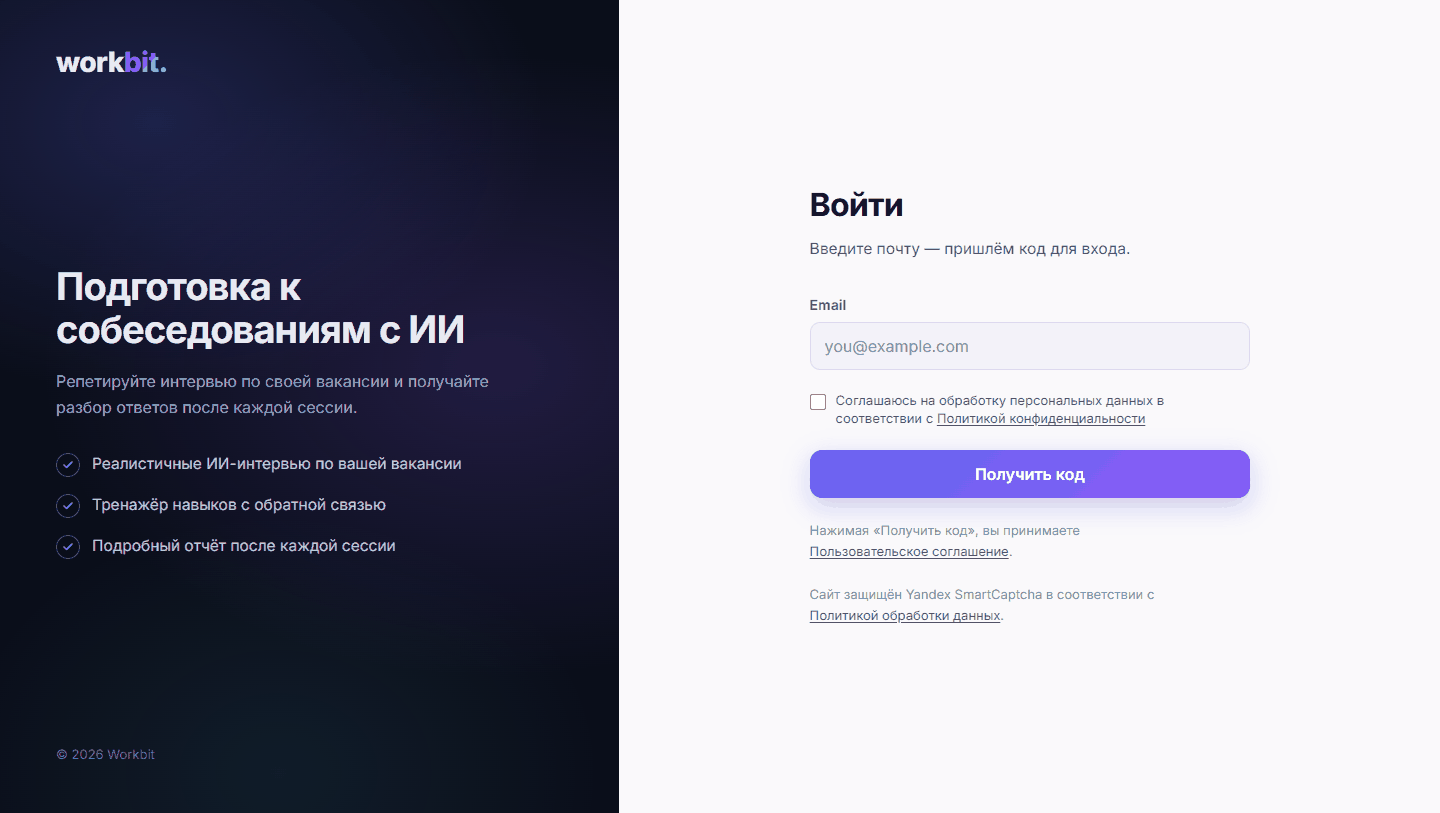
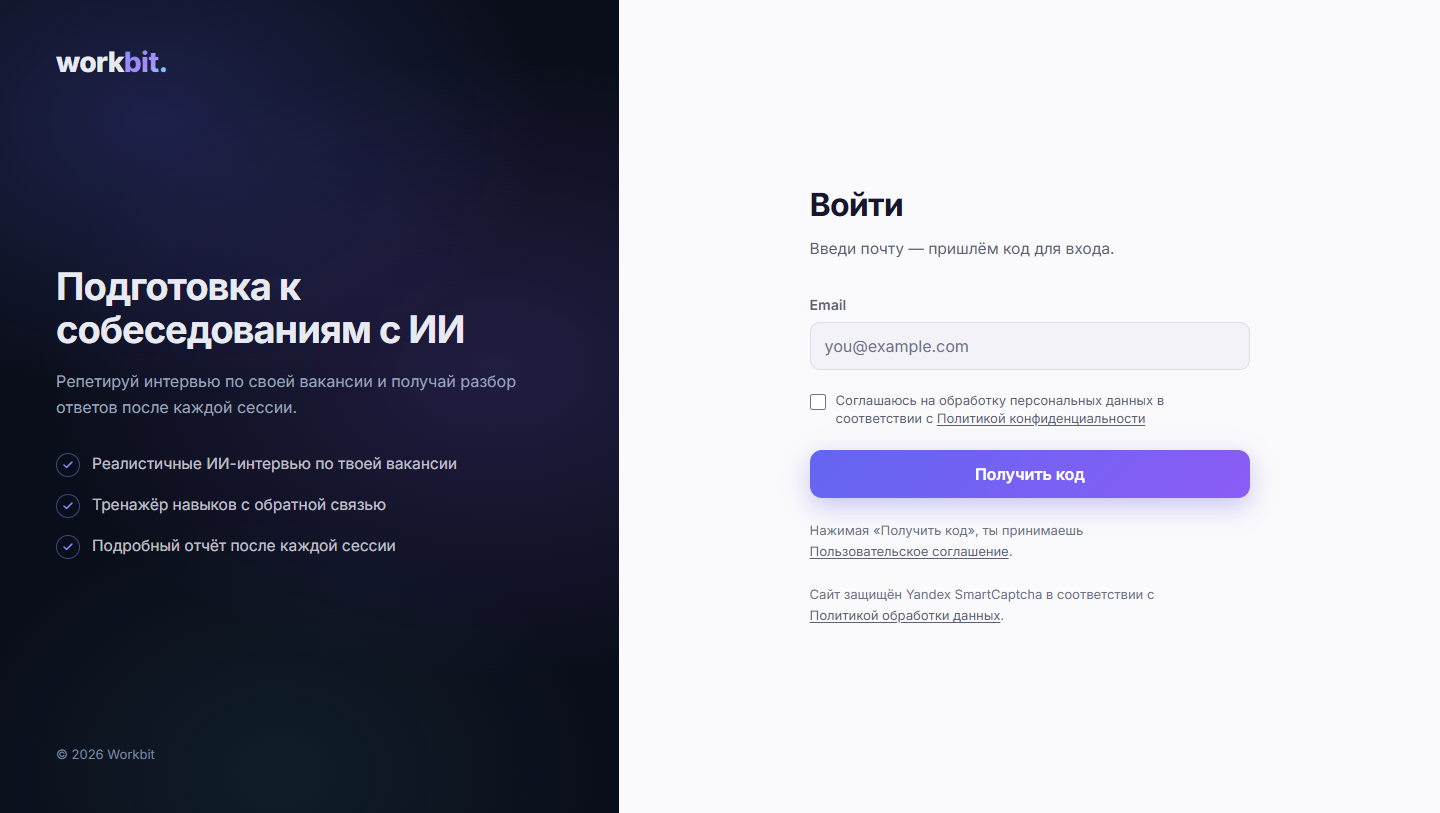
docs: refresh screenshots and update README for GitHub Actions CI/CD
- retake marketing/login screenshots for the redesigned pages (dark theme, 1440px)

- rewrite CI/CD section around GitHub Actions workflows (ci, deploy, security, backup, canary), replacing the retired GitVerse pipeline

- refresh coverage numbers from the latest mvn verify + JaCoCo run (branches 75% -> 76%, security domain 93% -> 94%)

diff --git a/README.ru.md b/README.ru.md
@@ -25,7 +25,7 @@
 
 ![Docker](https://img.shields.io/badge/Docker-Compose-2496ED?logo=docker&logoColor=white)
 ![Caddy](https://img.shields.io/badge/Caddy-reverse_proxy-1F88C0)
-![GitVerse](https://img.shields.io/badge/GitVerse-CI-1C64F2)
+![GitHub Actions](https://img.shields.io/badge/GitHub_Actions-CI%2FCD-2088FF?logo=githubactions&logoColor=white)
 ![Yandex Cloud](https://img.shields.io/badge/Yandex_Cloud-LLM_%7C_STT_%7C_VM-5282FF)
 ![Robokassa](https://img.shields.io/badge/Robokassa-payments-8B5CF6)
 ![Testcontainers](https://img.shields.io/badge/Testcontainers-integration_tests-291A3F)
@@ -103,7 +103,7 @@
 | Персистентность | Testcontainers (postgres:16) + `@DataJpaTest` на схеме из миграций Flyway |
 | Почта | GreenMail — реальная SMTP-доставка и проверка HTML-тела письма |
 | E2E | `@SpringBootTest(RANDOM_PORT)` + TestRestTemplate поверх Testcontainers |
-| Покрытие | JaCoCo — 87% строк, 75% веток (разбивка по доменам — в [Тестах](#-тесты)) |
+| Покрытие | JaCoCo — 87% строк, 76% веток (разбивка по доменам — в [Тестах](#-тесты)) |
 
 ### Инфраструктура
 
@@ -111,7 +111,7 @@
 |---|---|
 | Контейнеры | Docker, многосервисный Compose (postgres + backend + caddy) |
 | Прокси | Caddy — TLS, reverse proxy `/api`, статика SPA |
-| CI/CD | GitVerse CI: тесты на PR, релизный пайплайн с `master` (сборка образа kaniko → Yandex Container Registry, выкладка на VM) |
+| CI/CD | GitHub Actions: тесты на PR, релизный пайплайн с `master` (сборка образа → Yandex Container Registry, выкладка на VM с автооткатом), еженедельный security-скан, ночной бэкап БД, canary-проверки |
 | Хостинг | Yandex Cloud (VM, Container Registry), отдельный диск под данные PostgreSQL |
 
 ## 🔌 Интеграции
@@ -180,7 +180,7 @@ src/                  бэкенд (Maven, ru.workbit:workbit)
   main/proto/                    контракт SpeechKit STT
 frontend/             SPA (React + Vite)
 docs/                 описания REST-контрактов и юридические документы
-.gitverse/workflows/  CI- и deploy-пайплайны (GitVerse)
+.github/workflows/    CI, деплой, security-скан, бэкапы, canary (GitHub Actions)
 Dockerfile            образ бэкенда
 docker-compose.yml    локальная разработка (postgres)
 compose.prod.yml      прод: postgres + backend + caddy
@@ -223,7 +223,7 @@ Caddyfile             конфиг reverse proxy
 
 Фронтенд: `npm run lint`, `npm test` (Vitest) и `npm run build`.
 
-Покрытие — JaCoCo на `./mvnw verify`: 87% строк, 75% веток (сгенерированные gRPC-стабы SpeechKit из отчёта исключены):
+Покрытие — JaCoCo на `./mvnw verify`: 87% строк, 76% веток (сгенерированные gRPC-стабы SpeechKit из отчёта исключены):
 
 <details>
 <summary>Разбивка по доменам</summary>
@@ -235,7 +235,7 @@ Caddyfile             конфиг reverse proxy
 | `interview` | `██████████` | 98% |
 | `auth` | `██████████` | 97% |
 | `training` | `██████████` | 97% |
-| `security` | `█████████░` | 93% |
+| `security` | `█████████░` | 94% |
 | `util` | `█████████░` | 92% |
 | `llm` | `█████████░` | 91% |
 | `exception` | `████████░░` | 78% |
@@ -249,8 +249,11 @@ Caddyfile             конфиг reverse proxy
 
 ## ⚙ CI/CD
 
-- **CI** ([`.gitverse/workflows/ci.yml`](.gitverse/workflows/ci.yml)) — на PR в `develop` и `master`: юнит-тесты (`./mvnw test`), линт и сборка фронтенда.
-- **Deploy** ([`.gitverse/workflows/deploy.yml`](.gitverse/workflows/deploy.yml)) — на push в `master`: юнит-тесты, сборка образа бэкенда через kaniko с публикацией в Yandex Container Registry, выкладка на VM ([`compose.prod.yml`](compose.prod.yml): postgres + backend + caddy, TLS и статика фронтенда — через Caddy) с автооткатом и smoke-тестами. Еженедельный security-скан (Trivy, npm audit) ещё ждёт переноса с эпохи GitHub Actions.
+- **CI** ([`ci.yml`](.github/workflows/ci.yml)) — на PR в `develop` и `master`: `mvn verify` (юнит-тесты и интеграционные на Testcontainers), сборка образа бэкенда без публикации, линт, тесты и сборка фронтенда.
+- **Deploy** ([`deploy.yml`](.github/workflows/deploy.yml)) — на push в `master`: тесты, затем параллельно образ бэкенда уходит в Yandex Container Registry и собирается бандл фронтенда, следом выкладка на VM по SSH ([`compose.prod.yml`](compose.prod.yml): postgres + backend + caddy, TLS и статика фронтенда — через Caddy). Выкладка рендерит `.env` из зашифрованных SOPS-секретов, снимает дамп БД перед обновлением, ждёт, пока новый контейнер станет healthy, и откатывается на предыдущий образ, если не прошёл smoke бэкенда (`/api/v1/auth/me` должен ответить 401); статика фронтенда заливается rsync'ом и проверяется на canonical, JSON-LD и честный 404. Дальше отдельная джоба гоняет авторизованный smoke с живым вызовом LLM, а релизная — проставляет тег версии и публикует release notes.
+- **Security scan** ([`security.yml`](.github/workflows/security.yml)) — еженедельно: Trivy по зависимостям репозитория и по собранному образу бэкенда (CRITICAL/HIGH, только исправимые) плюс `npm audit` для фронтенда.
+- **DB backup** ([`backup.yml`](.github/workflows/backup.yml)) — ночной `pg_dump -Fc` на VM с ротацией за 14 дней.
+- **Canary** ([`canary.yml`](.github/workflows/canary.yml)) — каждые три часа: главная страница и `/api/v1/auth/me` (ожидается 401), с повторами; раз в сутки — тот же авторизованный smoke с живым вызовом LLM.
 
 ## 📚 Документация
 

diff --git a/README.md b/README.md
@@ -25,7 +25,7 @@ based on real hh.ru job postings, answering by text or voice.
 
 ![Docker](https://img.shields.io/badge/Docker-Compose-2496ED?logo=docker&logoColor=white)
 ![Caddy](https://img.shields.io/badge/Caddy-reverse_proxy-1F88C0)
-![GitVerse](https://img.shields.io/badge/GitVerse-CI-1C64F2)
+![GitHub Actions](https://img.shields.io/badge/GitHub_Actions-CI%2FCD-2088FF?logo=githubactions&logoColor=white)
 ![Yandex Cloud](https://img.shields.io/badge/Yandex_Cloud-LLM_%7C_STT_%7C_VM-5282FF)
 ![Robokassa](https://img.shields.io/badge/Robokassa-payments-8B5CF6)
 ![Testcontainers](https://img.shields.io/badge/Testcontainers-integration_tests-291A3F)
@@ -103,7 +103,7 @@ based on real hh.ru job postings, answering by text or voice.
 | Persistence | Testcontainers (postgres:16) + `@DataJpaTest` on the Flyway-migrated schema |
 | Email | GreenMail — real SMTP delivery and assertions on the HTML body of the email |
 | E2E | `@SpringBootTest(RANDOM_PORT)` + TestRestTemplate on top of Testcontainers |
-| Coverage | JaCoCo — 87% lines, 75% branches (per-domain breakdown in [Tests](#-tests)) |
+| Coverage | JaCoCo — 87% lines, 76% branches (per-domain breakdown in [Tests](#-tests)) |
 
 ### Infrastructure
 
@@ -111,7 +111,7 @@ based on real hh.ru job postings, answering by text or voice.
 |---|---|
 | Containers | Docker, multi-service Compose (postgres + backend + caddy) |
 | Proxy | Caddy — TLS, reverse proxy for `/api`, SPA static files |
-| CI/CD | GitVerse CI: tests on PRs, release pipeline from `master` (kaniko image build → Yandex Container Registry, VM rollout) |
+| CI/CD | GitHub Actions: tests on PRs, release pipeline from `master` (image build → Yandex Container Registry, VM rollout with rollback), weekly security scan, nightly database backup, canary checks |
 | Hosting | Yandex Cloud (VM, Container Registry), dedicated disk for PostgreSQL data |
 
 ## 🔌 Integrations
@@ -180,7 +180,7 @@ src/                  backend (Maven, ru.workbit:workbit)
   main/proto/                    SpeechKit STT contract
 frontend/             SPA (React + Vite)
 docs/                 REST contract descriptions and legal documents
-.gitverse/workflows/  CI and deploy pipelines (GitVerse)
+.github/workflows/    CI, deploy, security scan, backups, canary (GitHub Actions)
 Dockerfile            backend image
 docker-compose.yml    local development (postgres)
 compose.prod.yml      production: postgres + backend + caddy
@@ -223,7 +223,7 @@ Requirements: JDK 25, Node.js 22+, Docker.
 
 Frontend: `npm run lint`, `npm test` (Vitest) and `npm run build`.
 
-Coverage — JaCoCo on `./mvnw verify`: 87% lines, 75% branches (generated SpeechKit gRPC stubs are excluded from the report):
+Coverage — JaCoCo on `./mvnw verify`: 87% lines, 76% branches (generated SpeechKit gRPC stubs are excluded from the report):
 
 <details>
 <summary>Per-domain breakdown</summary>
@@ -235,7 +235,7 @@ Coverage — JaCoCo on `./mvnw verify`: 87% lines, 75% branches (generated Speec
 | `interview` | `██████████` | 98% |
 | `auth` | `██████████` | 97% |
 | `training` | `██████████` | 97% |
-| `security` | `█████████░` | 93% |
+| `security` | `█████████░` | 94% |
 | `util` | `█████████░` | 92% |
 | `llm` | `█████████░` | 91% |
 | `exception` | `████████░░` | 78% |
@@ -249,8 +249,11 @@ The weakly covered `vacancy` and `speech` are thin wrappers around external APIs
 
 ## ⚙ CI/CD
 
-- **CI** ([`.gitverse/workflows/ci.yml`](.gitverse/workflows/ci.yml)) — on PRs to `develop` and `master`: unit tests (`./mvnw test`), frontend lint and build.
-- **Deploy** ([`.gitverse/workflows/deploy.yml`](.gitverse/workflows/deploy.yml)) — on push to `master`: unit tests, backend image build with kaniko and push to Yandex Container Registry, rollout to the VM ([`compose.prod.yml`](compose.prod.yml): postgres + backend + caddy; TLS and frontend static files served by Caddy) with automatic rollback and smoke tests. The weekly security scan (Trivy, npm audit) is still pending its port from the GitHub Actions era.
+- **CI** ([`ci.yml`](.github/workflows/ci.yml)) — on PRs to `develop` and `master`: `mvn verify` (unit tests plus Testcontainers integration tests), a backend image build without a push, frontend lint, tests and build.
+- **Deploy** ([`deploy.yml`](.github/workflows/deploy.yml)) — on push to `master`: tests, then in parallel the backend image goes to Yandex Container Registry and the frontend bundle is built, then the rollout to the VM over SSH ([`compose.prod.yml`](compose.prod.yml): postgres + backend + caddy; TLS and frontend static files served by Caddy). The rollout renders `.env` from SOPS-encrypted secrets, dumps the database beforehand, waits for the new container to become healthy and rolls back to the previous image if the backend smoke fails (`/api/v1/auth/me` must answer 401); the frontend is rsynced and checked for a canonical link, JSON-LD and an honest 404. Afterwards a separate job runs an authenticated smoke with a live LLM call, and the release job tags the version and publishes GitHub release notes.
+- **Security scan** ([`security.yml`](.github/workflows/security.yml)) — weekly: Trivy over the repository dependencies and over the built backend image (CRITICAL/HIGH, fixable only), plus `npm audit` for the frontend.
+- **DB backup** ([`backup.yml`](.github/workflows/backup.yml)) — nightly `pg_dump -Fc` on the VM with a 14-day rotation.
+- **Canary** ([`canary.yml`](.github/workflows/canary.yml)) — every three hours: the home page and `/api/v1/auth/me` (401 expected), with retries; once a day the same authenticated smoke with a live LLM call.
 
 ## 📚 Documentation
 
